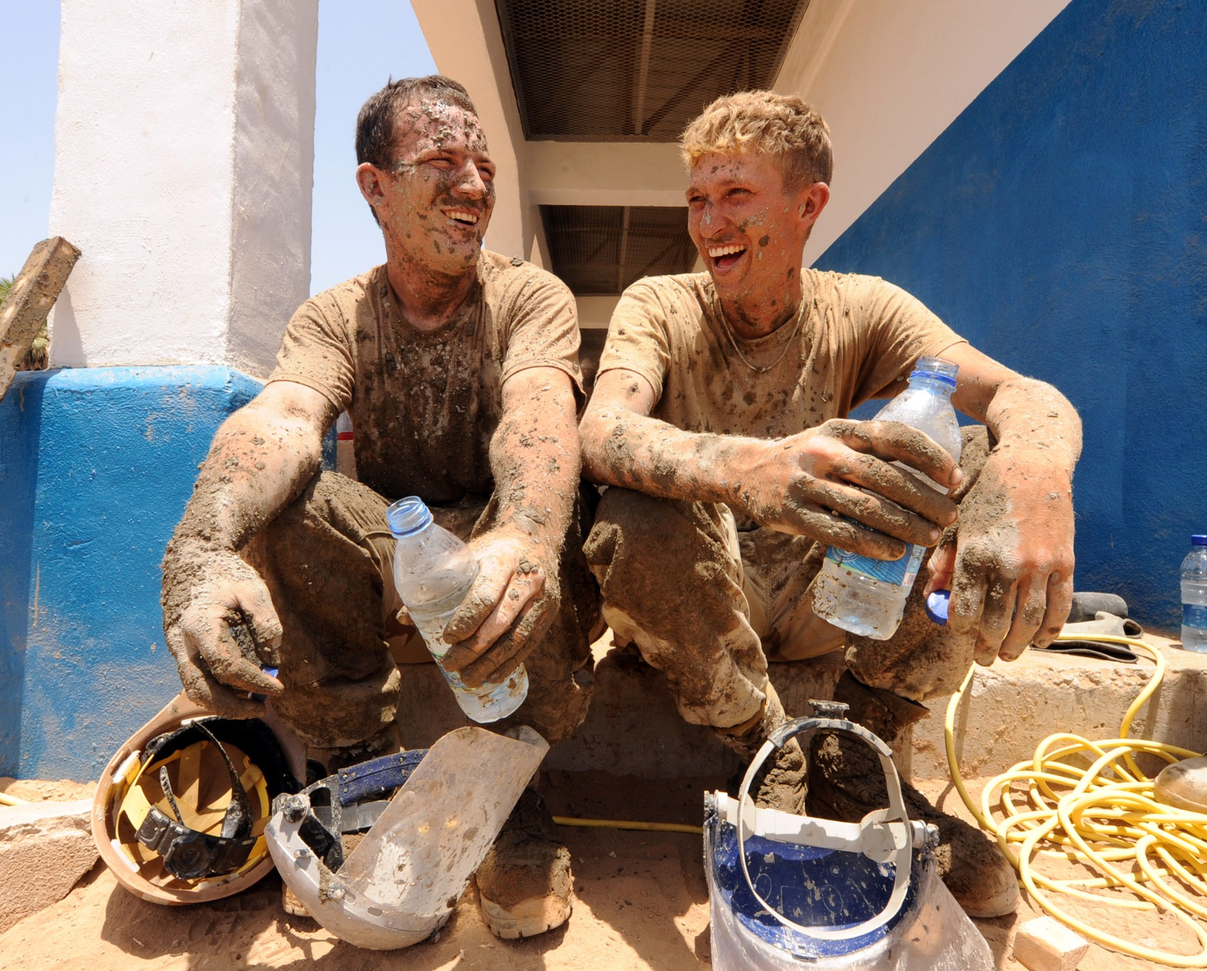
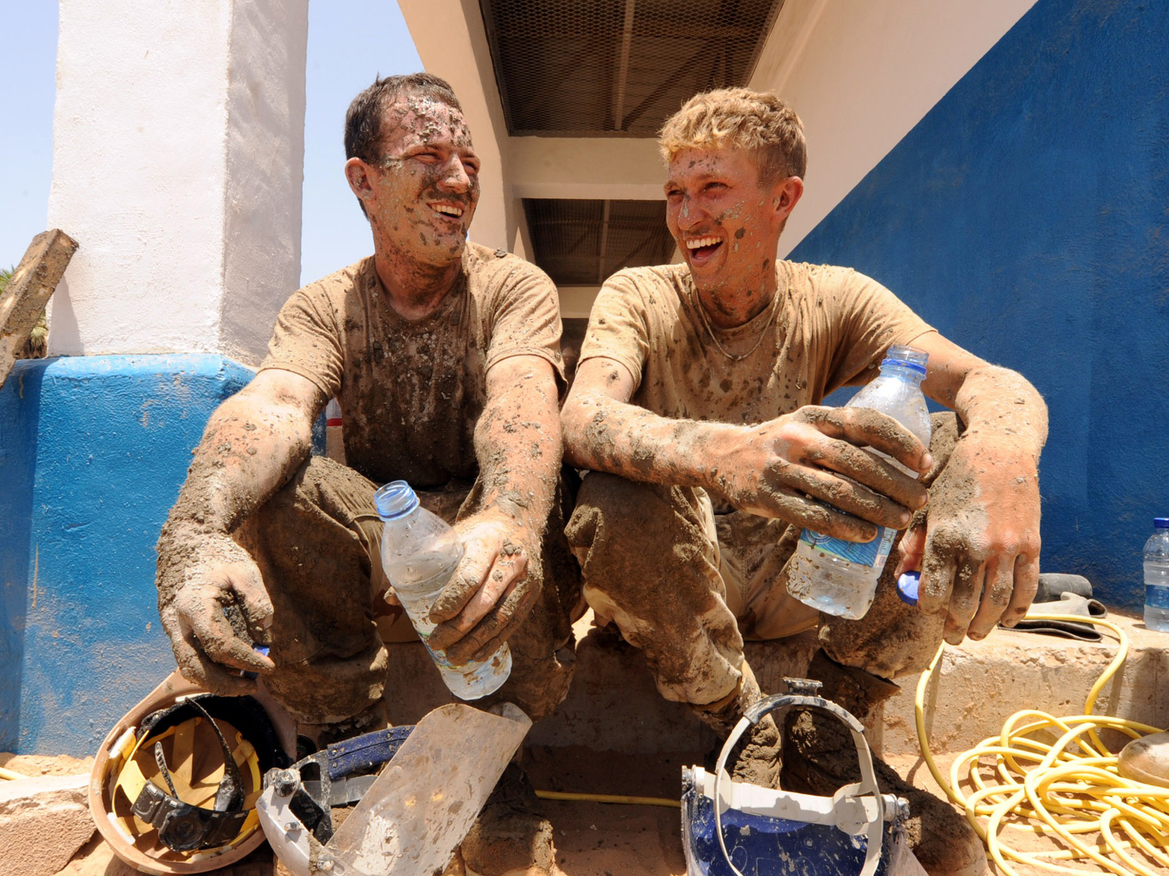
techtalk: soa: fix scaling on images, syntax errors on samples

diff --git a/tech-talks/slides/soa.html b/tech-talks/slides/soa.html
@@ -177,7 +177,7 @@
           <section>
             <pre><code>
   {
-    "refnum":"12345"
+    "refnum":"12345",
     "name":"Andy Dote",
     "applications":[
       {
@@ -193,7 +193,7 @@
           <section>
             <pre><code>
   {
-    "refnum":"12345"
+    "refnum":"12345",
     "name":"Andy Dote",
     "applications":[
       {
